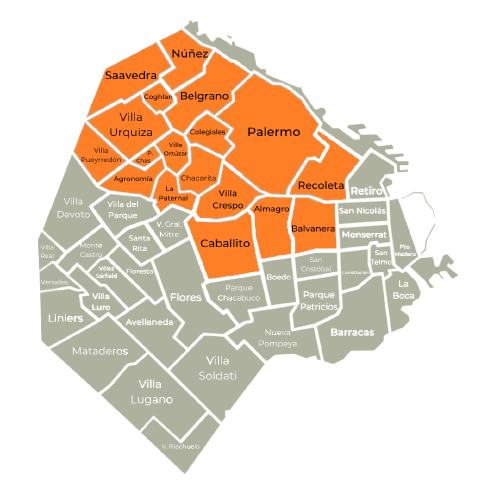
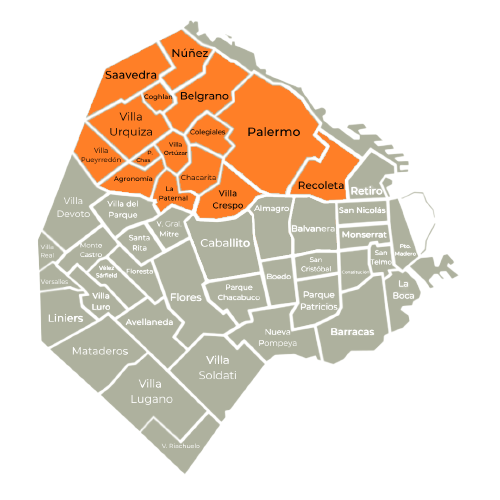
update: update non programmable data

diff --git a/next-app/components/Expandable.tsx b/next-app/components/Expandable.tsx
@@ -13,12 +13,12 @@ export default function Expandable(props: PropsWithChildren<ExpandableProps>) {
   return (
     <div className="transition-all">
       <button
-        className="bg-primary relative w-full py-2 text-2xl font-bold text-stone-100 lg:rounded-md"
+        className="bg-primary group relative w-full py-2 text-2xl font-bold text-stone-100 lg:rounded-md"
         onClick={toggleOpen}
       >
         {title}
         <span
-          className={`text-secondary/50 absolute right-4 text-xl font-light ${
+          className={`text-secondary absolute right-4 scale-y-150 text-2xl font-semibold transition-all group-hover:right-5 ${
             open ? '-rotate-90' : 'rotate-90'
           }`}
         >

diff --git a/next-app/pages/clinica.tsx b/next-app/pages/clinica.tsx
@@ -7,10 +7,7 @@ import useSendingStatus from '@/hooks/useSendingStatus'
 import SendButton from '@/components/SendButton'
 
 const BARRIOS_CABA = [
-  'Almagro',
-  'Balvanera',
   'Belgrano',
-  'Caballito',
   'Chacarita',
   'Coghlan',
   'Colegiales',
